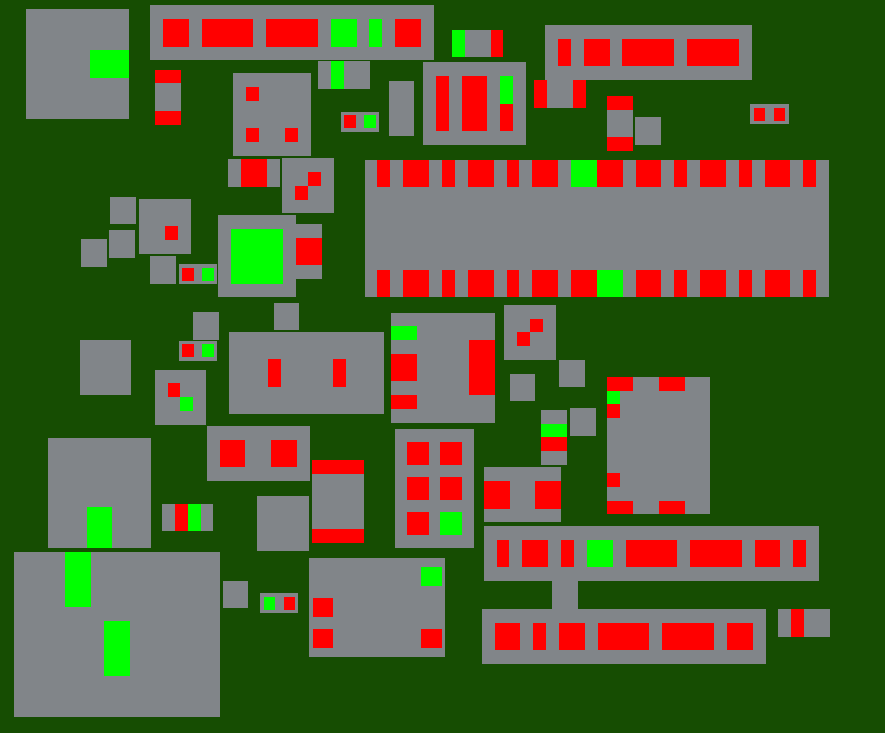
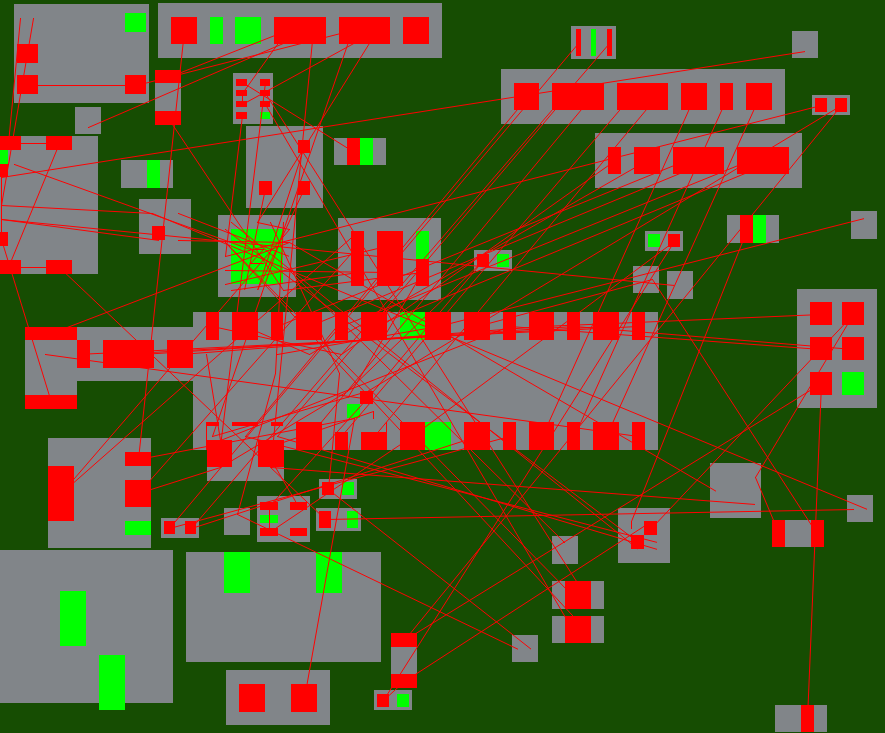
cleaning up clap mostly

diff --git a/pcb-layout/src/main.rs b/pcb-layout/src/main.rs
@@ -119,15 +119,32 @@ fn tester(pl: Placement) {
         (200, 500 * gen_mult),
         (500, 200 * gen_mult),
     ];
-    for i in test_cases {
+
+    for i in &test_cases {
         genetic_algorithim(pl.clone(), i.0, i.1, true, ev_selection, 1);
     }
+    for i in &test_cases{
+        let clone_sa = pl.clone();
+        let id2 = Individual::new(pl.clone());
+        let id3 = quick_sa(
+            id2,
+            log_cool,
+            (i.1 *100 )
+                .try_into()
+                .unwrap(),
+            true,
+        );
+
+    id3.plot(&format!("test-sa-{}.png", i.1 *100), &clone_sa.net_map);
+    }
+    
 }
 
 #[derive(Parser, Debug)]
 #[command(version, about, long_about = None)]
 struct Args {
-    /// Name of the .kicad_pcb file to use. Use synthetic to generate a fake board
+    /// Name of the .kicad_pcb file to use. Use synthetic to use the generated toy case. 
+    /// This probably will error on some boards. The parser was a bit of an afterthought and desperately needs more time
     #[arg(short, long, default_value_t = ("../arduino_kicad/arduino UNO.kicad_pcb").to_string() )]
     file: String,
 
@@ -137,7 +154,7 @@ struct Args {
     /// How many individuals are in our popuation
     #[arg(short, long, default_value_t = 100)]
     population_size: u32,
-    ///Run the testing function on our file (will overwrite gen/pop)
+    ///Run the testing function on our file (will override gen/pop)- right now this is the only way to see SA results too
     #[arg(short, long, default_value_t = false)]
     test: bool,
     ///Selection Type (ev or elitist) (these don't matter much)
@@ -146,9 +163,10 @@ struct Args {
     ///Generate an animation
     #[arg(short, long, default_value_t = false)]
     animate: bool,
-    ///Number of threads (GA only)
+    ///Number of threads (GA only), this is a bit of misnomer since its really how many groups the populations will be split into and then rayon deals with it
     #[arg( long, default_value_t = 1)]
     threads: u32,
+    
 }
 fn main() {
     let args = Args::parse();
@@ -162,7 +180,7 @@ fn main() {
     }
     pl2.shift_placement(0.0, 0.0);
     //for SA
-    let sa_pl = pl2.clone();
+    
     let test = args.test;
     let anim = args.animate;
     let sel_type = args.selection;
@@ -184,16 +202,6 @@ fn main() {
     } else {
         let _ = generate_animation(pl2);
     }
-    let clone_sa = sa_pl.clone();
-    let id2 = Individual::new(sa_pl);
-    let id3 = quick_sa(
-        id2,
-        log_cool,
-        (args.generations * args.population_size)
-            .try_into()
-            .unwrap(),
-        true,
-    );
 
-    id3.plot("test-sa.png", &clone_sa.net_map);
+    
 }

diff --git a/pcb-layout/src/ga.rs b/pcb-layout/src/ga.rs
@@ -443,8 +443,7 @@ pub fn genetic_algorithim(
 
         a_s.partial_cmp(&b_s).unwrap()
     });
-    let scores_for_debug :Vec<f64> = population.iter().map(|i| i.fitness).collect();
-    println!("{:?}",scores_for_debug );
+    
     let id = &mut population[0];
     if output {
         println!("New Score: {}", id.score());
